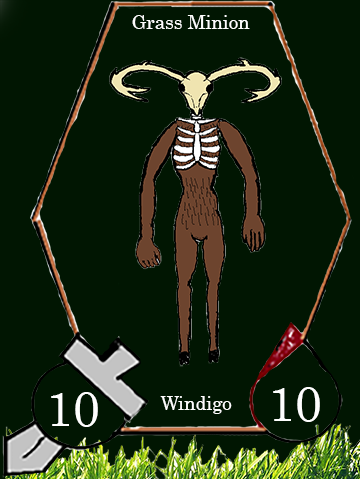
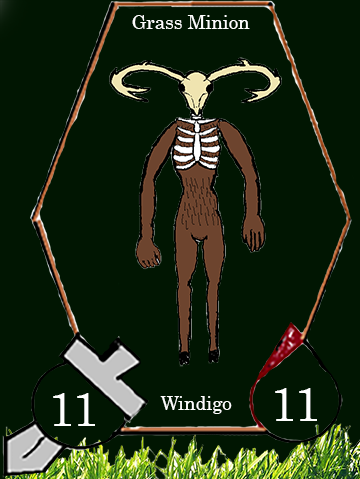
key speech and windigo fix

Changed region(s): [[0.7639, 0.7891, 0.8861, 0.8768], [0.1528, 0.8184, 0.275, 0.9061]]

diff --git a/js/game/gameEngine.js b/js/game/gameEngine.js
@@ -322,6 +322,7 @@ export const clearBorders = (exclude = null) => {
 }
 
 export const buySellHandler = (event) => {
+
     let target = $(event.target);
     let side = $(event.target).attr('class').split(' ')[1];
     let color = '';
@@ -351,9 +352,45 @@ export const buySellHandler = (event) => {
     }
 }
 
-export const keyHandler = (event) => {
+export const readBoard = (controller, board) => {
+    let speak = '';
 
-    if (event.which == 51 && !$('#take-action')[0].disabled) { // 49, 50, 51, 48
+    if (controller != 'you') {
+        speak = `The ${controller} has: `;
+    } else {
+        speak = 'You have: '
+    }
+
+    let new_board = boardOrder(board, undefined)
+
+    let first = true
+    for (let i = 0; i < new_board.length; i++) {
+        if (new_board[i] != undefined) {
+
+            if (!first) {
+             speak += 'and '
+            } else {
+                first = false;
+            } 
+
+            speak += `a ${new_board[i].name} with ${new_board[i].atk} attack and ${new_board[i].health} health, `
+        }
+    }
+
+    readMessage(speak)
+}
+
+export const readMessage = (mes) => {
+    let utter = new SpeechSynthesisUtterance(mes)
+    speechSynthesis.speak(utter)
+}
+
+export const keyHandler = (event) => {
+    console.log(event.key)
+
+    let game = event.data.game
+
+    if ((event.key == 'd' || event.key == 'D') && !$('#take-action')[0].disabled) { // D key
         for (let i = ($('.buyable').length - 1); i >= 0; i--) {
             if ($($('.buyable')[i]).css('border-style') == 'solid') {
                 actionTaken(event);
@@ -364,7 +401,7 @@ export const keyHandler = (event) => {
                 actionTaken(event);
             }
         }
-    } else if (event.which == 50) {
+    } else if (event.key == 's' || event.key == 'S') { // S key
         if ($('#round-comp').length >= 1) {
             roundComplete(event);
         } else if ($('#atk-comp').length >= 1) {
@@ -372,17 +409,35 @@ export const keyHandler = (event) => {
         } else if ($('#def-comp').length >= 1) {
             blockComplete(event);
         }
-    } else if (event.which == 49 && !$('#refresh-recruit')[0].disabled) {
+    } else if ((event.key == 'a' || event.key == 'A') && !$('#refresh-recruit')[0].disabled) { // A key
         refreshRecruit(event);
-    } else if (event.which == 48) {
+    } else if (event.key == 'f' || event.key == 'F') { // F key
         levelUpHandler(event);
-    } else if (event.which == 13) {
+    } else if (event.key == 'Enter') { // Enter key
         if (!$('#canvas')[0].disabled) {
             leaveNow(event);
         }
         if ($(event.target).attr('class').split(' ')[0] == 'card-img') {
             buySellHandler(event)
         }
+    } else if (event.key == 'g' || event.key == 'G') { // G key
+        readBoard('you', game.my_board)
+    } else if (event.key == 'h' || event.key == 'H') { // H key
+
+        if (game.phase == 'Recruit') {
+            readBoard('Buyboard', game.buy_board)
+        } else {
+            readBoard('Opponent', game.opp_board)
+        }
+
+    } else if (event.key == 'j' || event.key == 'J') { // J key
+        readMessage('your level is: ' + game.level)
+    } else if (event.key == 'k' || event.key == 'K') { // K key
+        readMessage('You have: ' + game.coins + ' coins')
+    } else if (event.key == 'l' || event.key == 'L') { // L key
+        readMessage('You have: ' + game.health + ' health remaining')
+    } else if (event.key == 'i' || event.key == 'I') { // I key
+        readMessage('It is currently round:' + game.round)
     }
 }
 
@@ -458,7 +513,7 @@ export const attackComplete = (event) => {
     }
 }
 
-export const blockComplete = (event, game=null) => {
+export const blockComplete = (event, game = null) => {
     if (game == null) {
         game = event.data.game;
     }
@@ -512,6 +567,7 @@ export const leaveNow = (event) => {
 export const loadElementsintoDOM = (game) => {
     game.startGame();
     resestDomBoard(game);
+
     {    
         $(document).on('click', '#lvl-up', {game: game}, levelUpHandler);
         $(document).on('click', '.buyable', buySellHandler);
@@ -535,7 +591,5 @@ request.onload = function() {
     const data = request.response;
 
     var game = new Game(data)
-
-    console.log(data)
     loadElementsintoDOM(game);
 }

diff --git a/html/compendium.html b/html/compendium.html
@@ -43,7 +43,7 @@
                             <li><img src="../static/images/cards/grass/Loin_Card.png" alt="Loin: attack: 8 , health: 8" height="200" width="150"></li>
                             <li><img src="../static/images/cards/grass/Banshee_Card.png" alt="Banshee: attack: 9, health: 9" height="200" width="150"></li>
                             <li><img src="../static/images/cards/grass/Owlman_Card.png" alt="Owl Man: attack: 10, health: 10" height="200" width="150"></li>
-                            <li><img src="../static/images/cards/grass/Windigo_Card.png" alt="Windigo: attack: 10, health: 10" height="200" width="150"></li>
+                            <li><img src="../static/images/cards/grass/Windigo_Card.png" alt="Windigo: attack: 11, health: 11" height="200" width="150"></li>
                             <li><img src="../static/images/cards/grass/Goat_man_card.png" alt="Goat Man: attack: 12, health 12" height="200" width="150"></li>
                             <li><img src="../static/images/cards/grass/Tree_Person_Card.png" alt="Tree Person: attack: 13 health: 13" height="200" width="150"></li>
                             <li><img src="../static/images/cards/grass/Horse_man_card.png" alt="Horse Man: attack: 14, health: 14" height="200" width="150"></li>

diff --git a/html/game.html b/html/game.html
@@ -12,8 +12,6 @@
 
     <body id="page-tail">
 
-        <script src="https://code.responsivevoice.org/responsivevoice.js?key=vYc1X6dU"></script>
-
         <div id="head-nav-bar"></div>
 
         <audio id="sold-sound">
